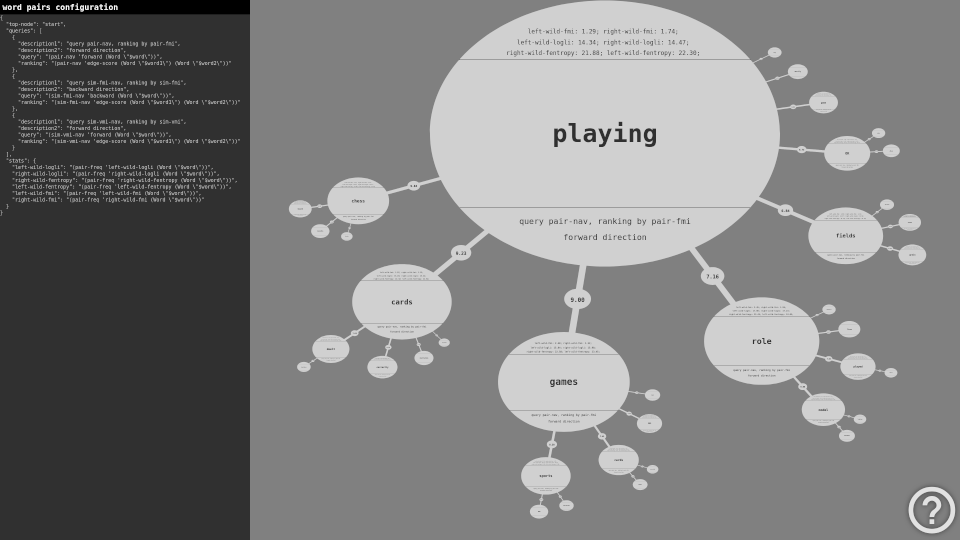
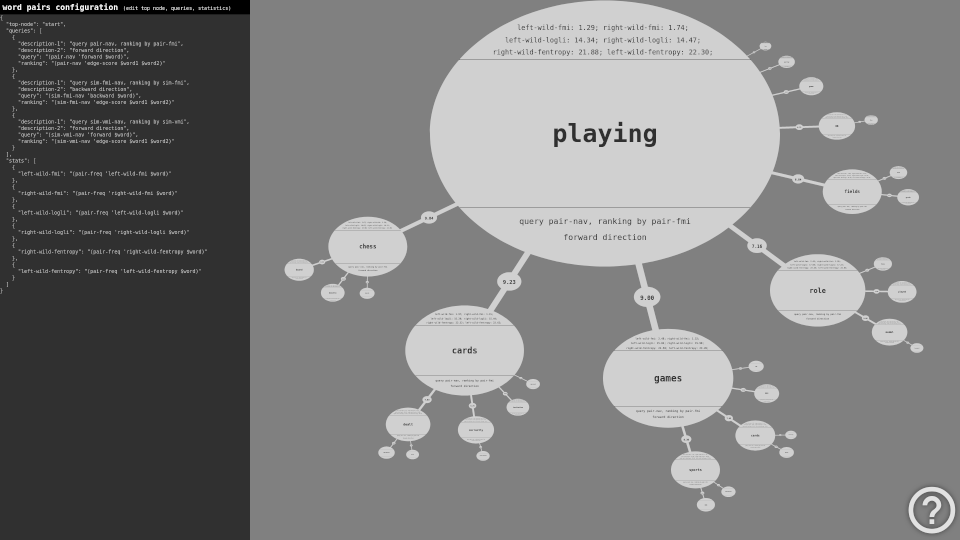
Update

diff --git a/vis-word-pairs/fract.html b/vis-word-pairs/fract.html
@@ -174,8 +174,6 @@
                                     
                                 } else {
                                     strPrompt = arr[arr.length - 1];
-                                    //if (fun)
-                                    //    fun ();
                                 }
                                 
                                 resolve ();
@@ -534,187 +532,91 @@
                         .replaceAll("$word2", escape (word2));
             }
             
-            function constructStats (stats, word) {
+            function constructStatsCall (stats, word) {
                 return stats.replaceAll("$word", escape (word));
             }
 
             async function setOval (data) {
                 return new Promise(async function(resolve, reject) {
-                    // stats
-                    query = "(display (list ";
-
-                    for (var i = 0; i < env.database["stats"].length; i++)
-                        query += constructStats (Object.values(env.database["stats"])[i][Object.keys(env.database["stats"][i])[0]], data.head) + " ";
-
-                    query += "))" + "\n";
-                        
-                    // children
-                    query += constructQueryCall (data.query, escape (data.head));
+                    query = "(display "
                     
-                    multisendcmd (query).then (
+                        query += "(list ";
+                            query += "(list ";
+
+                                // stats
+                                for (var i = 0; i < env.database["stats"].length; i++)
+                                    query += constructStatsCall (Object.values(env.database["stats"])[i][Object.keys(env.database["stats"][i])[0]], '(Word "' + data.head + '")') + " ";
+
+                            query += ")" + " ";
+                                
+                            // children and scores
+                            //query += `((lambda ($w2) (list $w2 (map (lambda ($w3) (pair-nav 'edge-score (Word "top") $w3)) $w2))) (pair-nav 'forward (Word "top")))`
+                            query += `((lambda ($w2) (list $w2 (map (lambda ($w3) ` + constructRankingCall (data.ranking, '(Word "' + data.head + '")', "$w3") + `) $w2))) ` + constructQueryCall (data.query, '(Word "' + data.head + '")') + `)`
+
+                        query += ")";
+                    query += ")";
+                    
+                    sendcmd (query + "\n").then (
                         (response) => {
                             // stats
-                            var resp = JSON.parse (response)
-                            var arr = resp[0].substring (1, resp[0].length - 2).split (" ");
-                            var j = 0;
-                            data.stats = [];
-                            for (i in env.database["stats"]) {
-                                data.stats[Object.keys(env.database["stats"][i])[0]] = arr[j];
-                                j++
-                            }
+                            var resp = parser.parse(rules, response).sexpr;
                             
-                            // children
-                            var s1 = parser.parse(rules, resp[1]).sexpr;
-                            if (!s1) {
-                                //alert ("Error setOval: \"" + data.head + "\"\nCommand: " + response + "");
-                                setChildren (data, ["###ERROR###"]);
+                            if (resp[1][0] === "Backtrace:") {
+                                console.log (response);
+                                data.children.push ({head: "###ERROR###", done: true, score: undefined, parent: data, index: i, children: []});
+                                resolve ()
 
                             } else {
-                                if (resp[1] !== "()") {
-                                    if (s1[1][0] === "Backtrace:") {
-                                        //alert ("Error setOval: \"" + data.head + "\"\nCommand: " + response + "");
-                                        s2 = ["###ERROR###"];
-                                    } else {
-                                        var s2 = extractChildren(data, s1)
-                                        if (data.done) s2 = ["###ERROR###"];
-                                        if (s2[0] === "###LEFT-WALL###") s2 = ["###LEFT-WALL###"];
-                                    }
-                                    
-                                    setChildren (data, s2)
-                                    resolve ();
-                                } else {
-                                    data.done = true;
-                                    resolve ();
-                                }
+                                setStats (data, resp[1][1][1][0][1][1]);
+                                setChildren (data, resp[1][1][1][2][1][1][0][1][1])
+                                setScores (data, resp[1][1][1][2][1][1][2][1][1]);
+                                resolve ();
                             }
                         }
                     )
                 });
-                    //alert(query);
             }
             
-            async function setStats (data) {
-                return new Promise(async function(resolve, reject) {
-                    query = "(display (list ";
-
-                    for (var i = 0; i < env.database["stats"].length; i++)
-                        query += constructStats (Object.values(env.database["stats"])[i][Object.keys(env.database["stats"][i])[0]], data.head) + " ";
-
-                    query += "))";
-
-                    sendcmd (query + "\n").then (
-                        (response) => {
-                            var arr = response.substring (1, response.length - 2).split (" ");
-                            var j = 0;
-                            data.stats = [];
-                            for (i in env.database["stats"]) {
-                                data.stats[Object.keys(env.database["stats"][i])[0]] = arr[j];
-                                j++
-                            }
-
-                            resolve ();
-                        }
-                    );
-                });
+            function setStats (data, arr) {
+                data.stats = [];
+                for (var i in env.database["stats"]) {
+                    data.stats[Object.keys(env.database["stats"][i])[0]] = (Array.isArray(arr)? arr[0]: arr);
+                    arr = arr[2];
+                }
             }
-
-            async function setScore (data) {
-                return new Promise(async function(resolve, reject) {
-                    if (data.head) {
-                        if (data.children[0] && data.children[0].head !== "###ERROR###") {
-                            query = "(display (list ";
-                            for (var i = 0; i < data.children.length; i++)
-                                //query += constructRankingCall (env.database["queries"][env.showQuery]["ranking"], data.head, data.children[i].head) + " ";
-                                query += constructRankingCall (data.ranking, data.head, data.children[i].head) + " ";
-
-                            query += "))";
-                            
-                            sendcmd (query + "\n").then (
-                                (response) => {
-                                    try {
-                                        var nums = [];
-                                        var arr = parser.parse(rules, response).sexpr;
-                                        //var arr = parser.parse(rules, "(1)").sexpr;
-
-                                        arr = arr[1][1][1];
-                                        if (!isNaN (arr[2])) {
-                                            nums.push(arr[2]);
-                                        
-                                        } else {
-                                            do {
-                                                nums.push (arr[0]);
-                                                arr = arr[2];
-                                            } while (Array.isArray(arr));
-                                            
-                                            nums.push (arr);
-                                        }
-                                        
-                                        for (var j = 0; j < data.children.length; j++)
-                                            data.children[j].score = nums[j];
-
-                                    } catch (e) {
-                                        //alert ("Error extracting rank below: \"" + data.head + "\"");
-                                        data.done = true;
-                                    }
-
-                                    resolve ();
-                                }
-                            );
-                            
-                        } else {
-                            resolve ();
-                        }
-                        
-                    } else {
-                        resolve ();
-                    }
-                });
-            }
-
+            
             function setChildren (data, rel) {
+                var ret = [];
+                while (Array.isArray(rel[2])) {
+                    var txt = rel[0][1][1][2];
+                    ret.push (txt.substr (1, txt.length - 2));
+                    rel = rel[2];
+                }
+                
+                var txt = rel[1][1][2];
+                ret.push (txt.substr (1, txt.length - 2));
+
                 data.children = [];
-                for (var i = 0; i < rel.length; i++) {
-                    var item = {head: rel[i], score: undefined, parent: data, index: i, children: []};
-                    if (rel[i] === "###ERROR###" || rel[i] === "###LEFT-WALL###")
-                        item.done = true;
+                for (var i = 0; i < ret.length; i++) {
+                    var item = {head: ret[i], score: undefined, parent: data, index: i, children: []};
                     
                     data.children.push (item);
                 }
             }
 
-            function extractChildren (data, arr) {
-                var ret = [];
-
-                try {
-                    arr = arr[1][1][1];
-                    while (Array.isArray(arr[2])) {
-                        var txt = arr[0][1][1][2];
-                        ret.push (txt.substr (1, txt.length - 2));
-                        arr = arr[2];
-                    }
-                    
-                    var txt = arr[1][1][2];
-                    ret.push (txt.substr (1, txt.length - 2));
-                
-                } catch (e) {
-                    //alert ("Error extractChildren: \"" + data.head + "\"");
-                    data.done = true;
+            function setScores (data, arr) {
+                for (i = 0; i < data.children.length; i++) {
+                    data.children[i].score = (Array.isArray(arr)? arr[0]: arr);
+                    arr = arr[2];
                 }
-                
-                return ret;
             }
-            
+
             async function loadOval(node, oldrefr) {
                 return new Promise(async function(resolve, reject) {
                     if (strPrompt && node.data.head) {
                         setOval (node.data).then (
                             (response) => {
-                                divContainer.dispatchEvent(new CustomEvent('redraw', null));
-                                setScore (node.data).then (
-                                    (response) => {
-                                        resolve ();
-                                    }
-                                );
+                                resolve ();
                             }
                         );
                     } else {

diff --git a/vis-word-pairs/main.conf.js b/vis-word-pairs/main.conf.js
@@ -14,40 +14,40 @@ var init = {
             {
                 "description-1": "query pair-nav, ranking by pair-fmi",
                 "description-2": "forward direction",
-                "query": "(pair-nav 'forward (Word \"$word\"))",
-                "ranking": "(pair-nav 'edge-score (Word \"$word1\") (Word \"$word2\"))",
+                "query": "(pair-nav 'forward $word)",
+                "ranking": "(pair-nav 'edge-score $word1 $word2)",
             },
             {
                 "description-1": "query sim-fmi-nav, ranking by sim-fmi",
                 "description-2": "backward direction",
-                "query": "(sim-fmi-nav 'backward (Word \"$word\"))",
-                "ranking": "(sim-fmi-nav 'edge-score (Word \"$word1\") (Word \"$word2\"))"
+                "query": "(sim-fmi-nav 'backward $word)",
+                "ranking": "(sim-fmi-nav 'edge-score $word1 $word2)"
             },
             {
                 "description-1": "query sim-vmi-nav, ranking by sim-vmi",
                 "description-2": "forward direction",
-                "query": "(sim-vmi-nav 'forward (Word \"$word\"))",
-                "ranking": "(sim-vmi-nav 'edge-score (Word \"$word1\") (Word \"$word2\"))"
+                "query": "(sim-vmi-nav 'forward $word)",
+                "ranking": "(sim-vmi-nav 'edge-score $word1 $word2)"
             }
         ],
         "stats": [
             {
-                "left-wild-fmi": "(pair-freq 'left-wild-fmi (Word \"$word\"))"
+                "left-wild-fmi": "(pair-freq 'left-wild-fmi $word)"
             },
             {
-                "right-wild-fmi": "(pair-freq 'right-wild-fmi (Word \"$word\"))"
+                "right-wild-fmi": "(pair-freq 'right-wild-fmi $word)"
             },
             {
-                "left-wild-logli": "(pair-freq 'left-wild-logli (Word \"$word\"))"
+                "left-wild-logli": "(pair-freq 'left-wild-logli $word)"
             },
             {
-                "right-wild-logli": "(pair-freq 'right-wild-logli (Word \"$word\"))"
+                "right-wild-logli": "(pair-freq 'right-wild-logli $word)"
             },
             {
-                "right-wild-fentropy": "(pair-freq 'right-wild-fentropy (Word \"$word\"))"
+                "right-wild-fentropy": "(pair-freq 'right-wild-fentropy $word)"
             },
             {
-                "left-wild-fentropy": "(pair-freq 'left-wild-fentropy (Word \"$word\"))"
+                "left-wild-fentropy": "(pair-freq 'left-wild-fentropy $word)"
             }
         ]
     }
